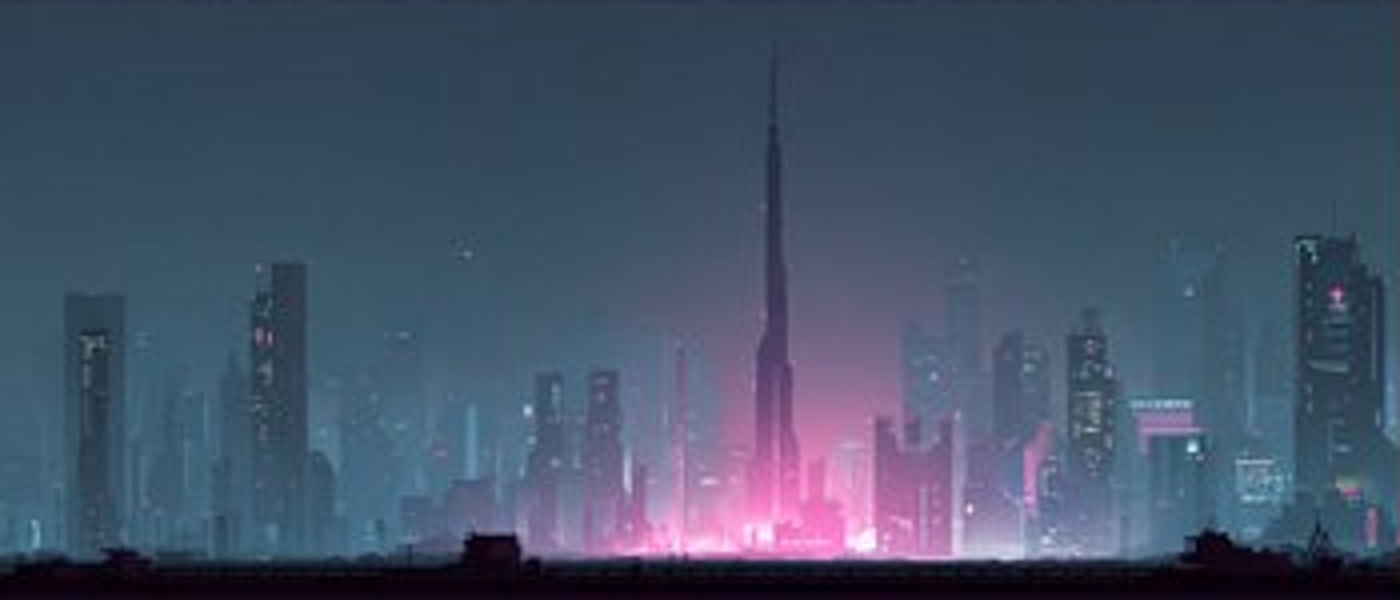
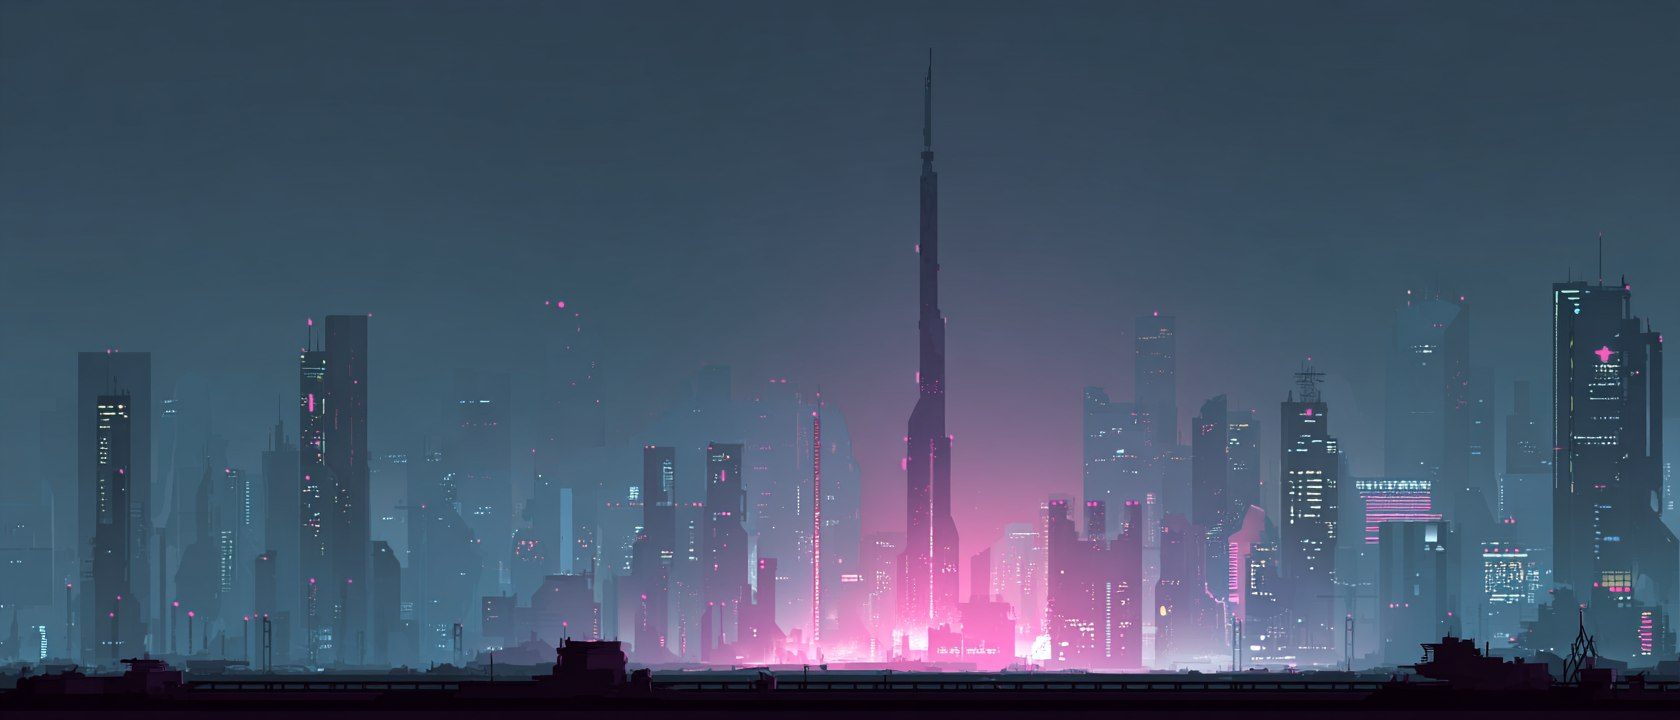
Доки+ядро фоны в полном качестве (апскейл #4/#3) — v0.8.6
Все 4 локации теперь рисованные фоны в качестве (slums/corp/docks#4/core#3 апскейл MJ).

Claude-Session: https://claude.ai/code/session_01AYMMMg1UWftChvtdBg39Aq

diff --git a/docs/play/index.html b/docs/play/index.html
@@ -111,7 +111,7 @@ body {
 
 		<script src="index.js"></script>
 		<script>
-const GODOT_CONFIG = {"args":[],"canvasResizePolicy":2,"emscriptenPoolSize":8,"ensureCrossOriginIsolationHeaders":true,"executable":"index","experimentalVK":false,"fileSizes":{"index.pck":13673152,"index.wasm":39509339},"focusCanvas":true,"gdextensionLibs":[],"godotPoolSize":4};
+const GODOT_CONFIG = {"args":[],"canvasResizePolicy":2,"emscriptenPoolSize":8,"ensureCrossOriginIsolationHeaders":true,"executable":"index","experimentalVK":false,"fileSizes":{"index.pck":14185600,"index.wasm":39509339},"focusCanvas":true,"gdextensionLibs":[],"godotPoolSize":4};
 const GODOT_THREADS_ENABLED = false;
 const engine = new Engine(GODOT_CONFIG);
 